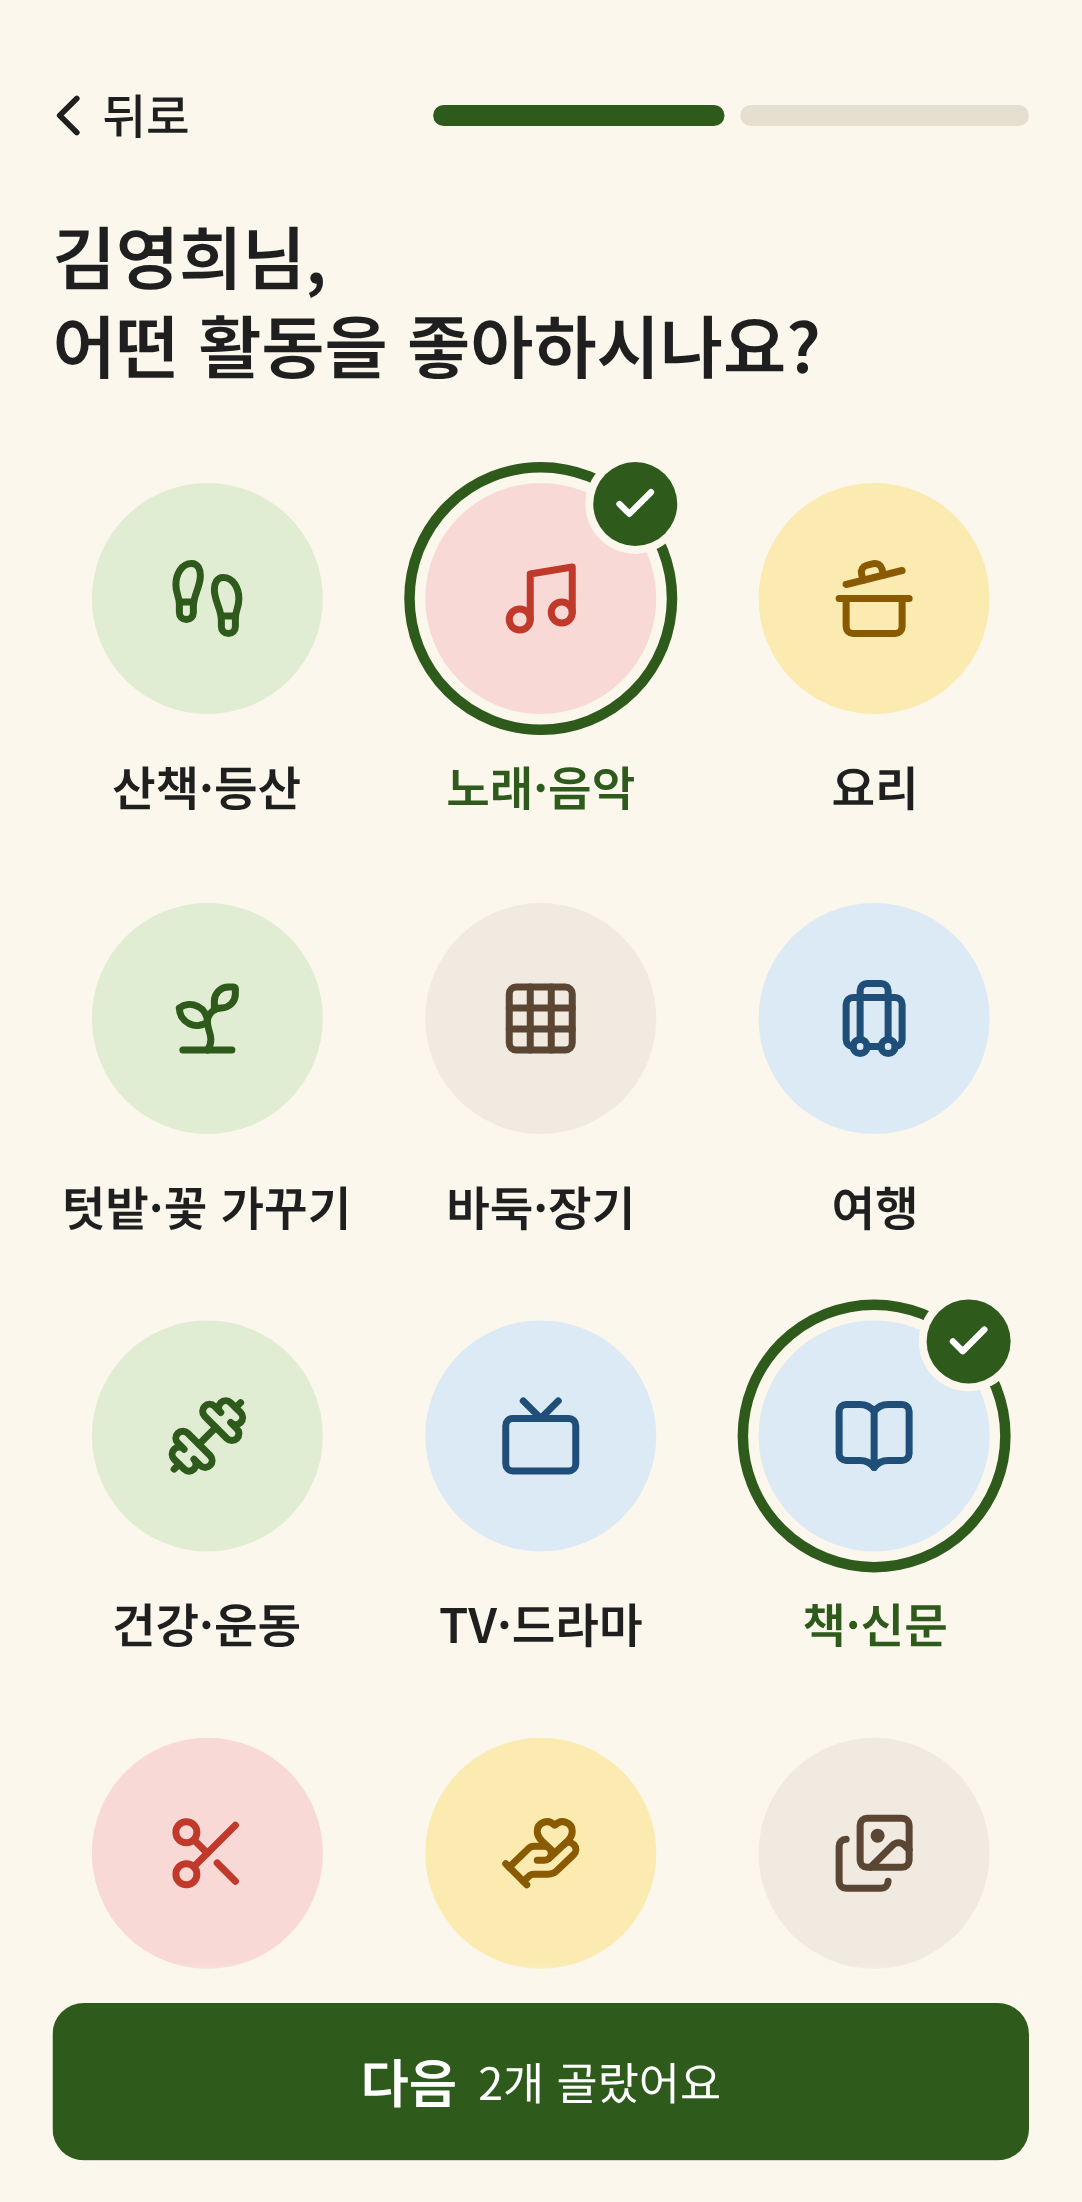
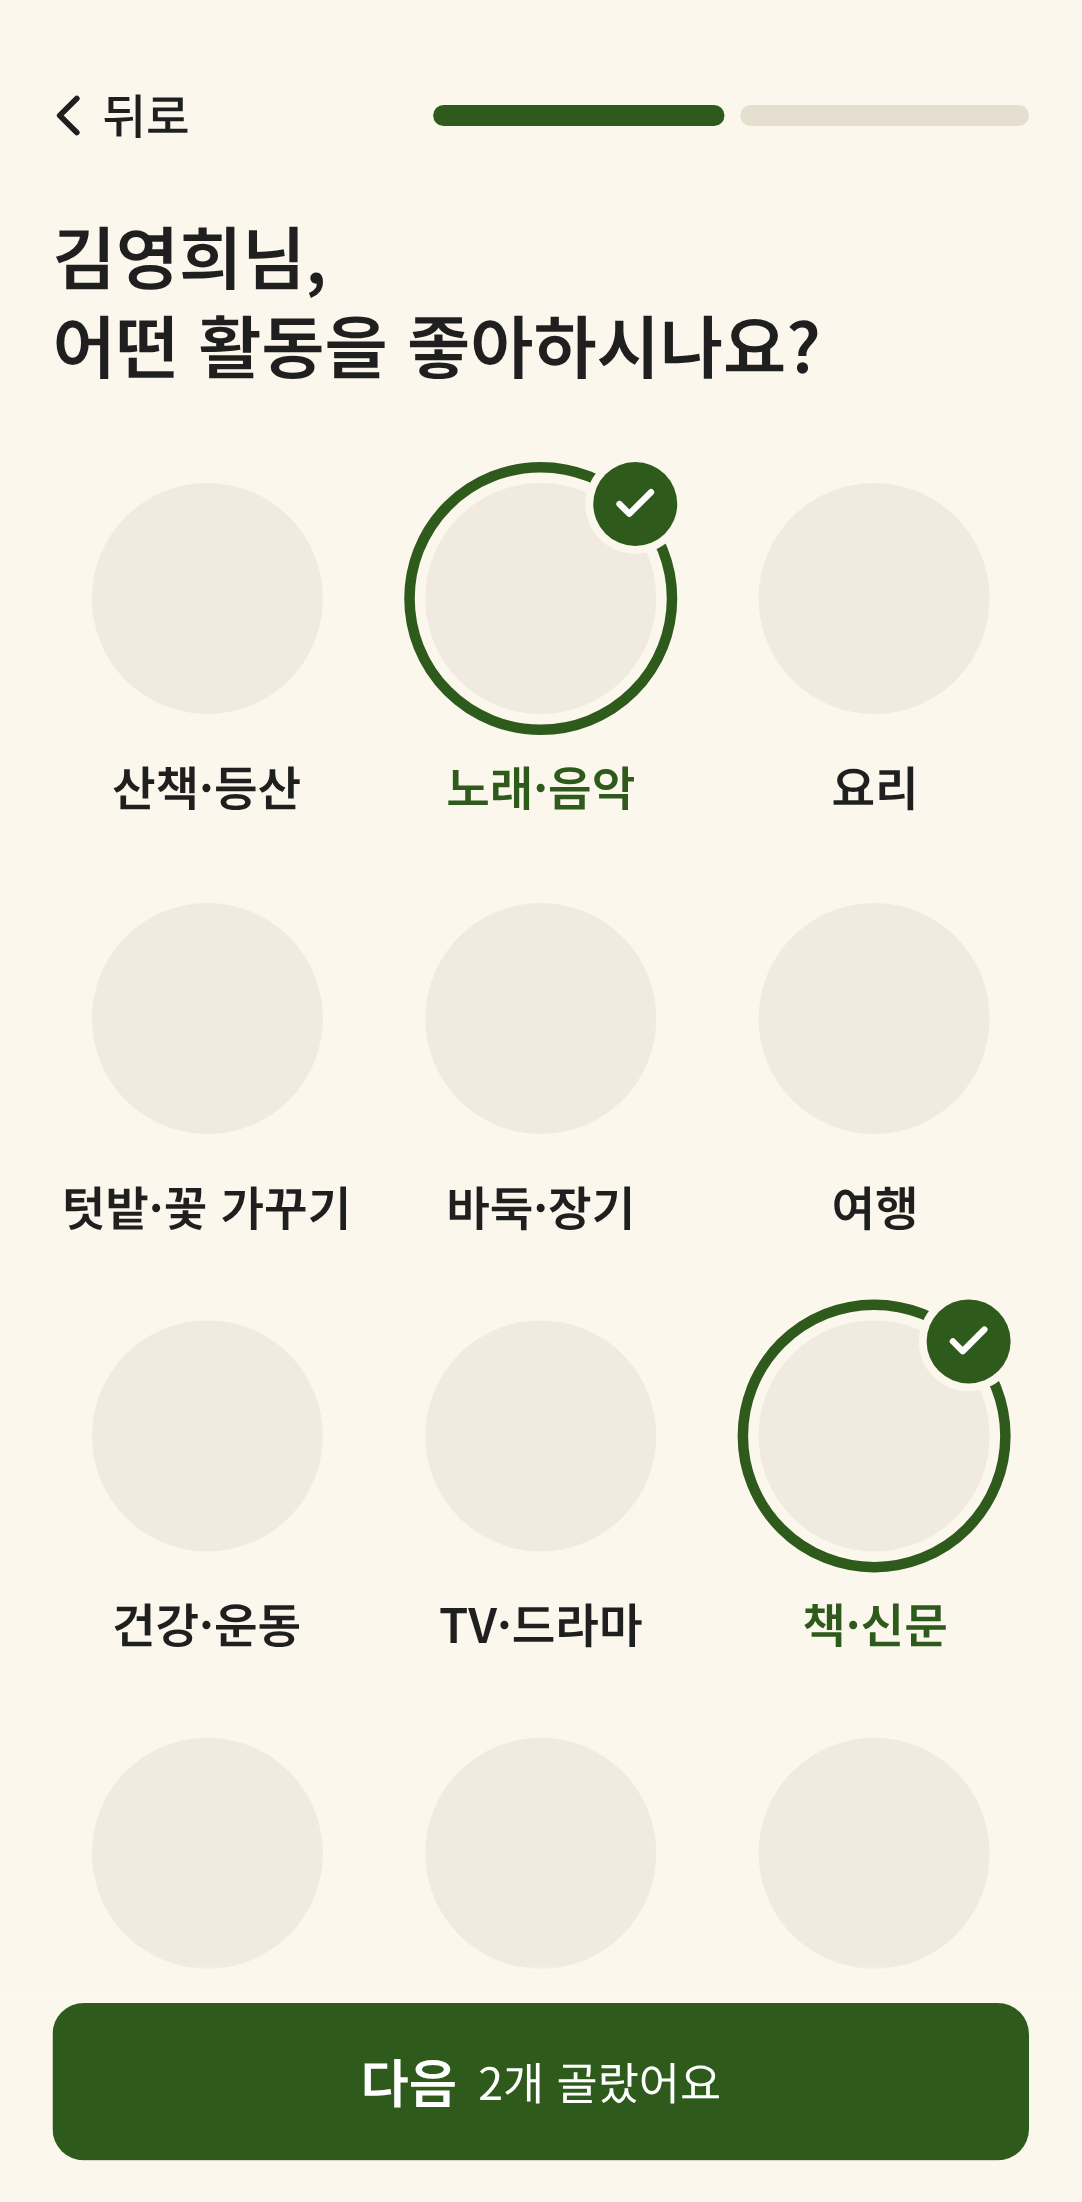
A23: 사진 대체 화면은 아이콘 대신 연한 바탕만

diff --git a/frontend/src/features/auth/components/interestChoices.ts b/frontend/src/features/auth/components/interestChoices.ts
@@ -1,41 +1,26 @@
-import {
-  BookOpen,
-  CookingPot,
-  Dumbbell,
-  Footprints,
-  Grid3x3,
-  HandHeart,
-  Images,
-  Luggage,
-  Music,
-  Scissors,
-  Sprout,
-  Tv,
-  type LucideIcon,
-} from 'lucide-react'
-import type { ChoiceTone, PhotoChoice } from '@/shared/ui/PhotoChoiceGrid'
+import type { PhotoChoice } from '@/shared/ui/PhotoChoiceGrid'
 
 /**
  * 관심사(INTERESTS 코드)별 대표 사진 — 시연용 실사 사진 (A23).
  *
  * activityPhotos(A20)와 같은 방식: Unsplash 무료 사진(Unsplash License)을 CDN 주소로 바로 불러온다.
- * 사진을 못 불러오면 아이콘 + 파스텔 바탕으로 대신 보인다.
- * 사진을 바꾸려면 photo(…photo- 뒤 부분)만 바꾸면 된다.
+ * 사진을 못 불러오면 연한 바탕만 보인다 (대신 그림은 넣지 않음).
+ * 사진을 바꾸려면 아래 id(photo- 뒤 부분)만 바꾸면 된다.
  * 사진은 설명(alt) 기준으로 골랐다 — 화면에서 확인하고 어색하면 교체.
  */
-const LOOK: Record<string, { photo: string; icon: LucideIcon; tone: ChoiceTone }> = {
-  walking: { photo: '1671530725345-cc4a2cf5db04', icon: Footprints, tone: 'mint' }, // 공원을 함께 걷는 두 사람
-  music: { photo: '1785225484906-56a45c2a5beb', icon: Music, tone: 'pink' }, // 함께 노래하는 어르신들
-  cooking: { photo: '1785735364482-0979a960c625', icon: CookingPot, tone: 'yellow' }, // 김이 나는 국 한 그릇
-  gardening: { photo: '1688176939869-27718ebf6ad9', icon: Sprout, tone: 'mint' }, // 나무 상자 텃밭의 상추
-  baduk: { photo: '1777652907869-97332fd656d8', icon: Grid3x3, tone: 'beige' }, // 바둑 두는 사람들
-  travel: { photo: '1736080058317-84ff903cb9f6', icon: Luggage, tone: 'sky' }, // 산이 보이는 바닷가
-  health: { photo: '1775338782892-315ab263fab9', icon: Dumbbell, tone: 'mint' }, // 함께 하는 태극권·스트레칭
-  tv: { photo: '1528429421263-b742bf08e211', icon: Tv, tone: 'sky' }, // 소파에서 TV 보기
-  reading: { photo: '1745774609395-a7621c50887f', icon: BookOpen, tone: 'sky' }, // 바깥에서 책 읽는 어르신
-  crafts: { photo: '1541753866388-0b3c701627d3', icon: Scissors, tone: 'pink' }, // 그림 그리는 손
-  faith: { photo: '1765146567664-cf0c0d987da9', icon: HandHeart, tone: 'yellow' }, // 나란히 켜진 촛불
-  memories: { photo: '1528569937393-ee892b976859', icon: Images, tone: 'beige' }, // 흑백 사진 앨범
+const PHOTO_IDS: Record<string, string> = {
+  walking: '1671530725345-cc4a2cf5db04', // 공원을 함께 걷는 두 사람
+  music: '1785225484906-56a45c2a5beb', // 함께 노래하는 어르신들
+  cooking: '1785735364482-0979a960c625', // 김이 나는 국 한 그릇
+  gardening: '1688176939869-27718ebf6ad9', // 나무 상자 텃밭의 상추
+  baduk: '1777652907869-97332fd656d8', // 바둑 두는 사람들
+  travel: '1736080058317-84ff903cb9f6', // 산이 보이는 바닷가
+  health: '1775338782892-315ab263fab9', // 함께 하는 태극권·스트레칭
+  tv: '1528429421263-b742bf08e211', // 소파에서 TV 보기
+  reading: '1745774609395-a7621c50887f', // 바깥에서 책 읽는 어르신
+  crafts: '1541753866388-0b3c701627d3', // 그림 그리는 손
+  faith: '1765146567664-cf0c0d987da9', // 나란히 켜진 촛불
+  memories: '1528569937393-ee892b976859', // 흑백 사진 앨범
 }
 
 /** 둥근 사진 지름(최대 104px)의 2배 정도로 잘라 받는다 */
@@ -43,16 +28,10 @@ function photoUrl(id: string) {
   return `https://images.unsplash.com/photo-${id}?w=240&h=240&fit=crop&auto=format&q=70`
 }
 
-/** 서버가 준 관심사 목록 → 사진 선택지 (모르는 코드는 아이콘만) */
+/** 서버가 준 관심사 목록 → 사진 선택지 (모르는 코드는 바탕만) */
 export function toInterestChoices(list: { code: string; label: string }[]): PhotoChoice[] {
   return list.map(({ code, label }) => {
-    const look = LOOK[code]
-    return {
-      value: code,
-      label,
-      image: look ? photoUrl(look.photo) : null,
-      icon: look?.icon ?? HandHeart,
-      tone: look?.tone ?? 'beige',
-    }
+    const id = PHOTO_IDS[code]
+    return { value: code, label, image: id ? photoUrl(id) : null }
   })
 }

diff --git a/frontend/src/shared/ui/PhotoChoiceGrid.tsx b/frontend/src/shared/ui/PhotoChoiceGrid.tsx
@@ -1,17 +1,12 @@
-import { Check, type LucideIcon } from 'lucide-react'
+import { Check } from 'lucide-react'
 import { useState } from 'react'
 import styles from './PhotoChoiceGrid.module.css'
-import { ICON, ICON_STROKE } from './icon'
-
-export type ChoiceTone = 'pink' | 'mint' | 'yellow' | 'sky' | 'beige'
 
 export interface PhotoChoice {
   value: string
   label: string
-  /** 사진 주소. 없거나 못 불러오면 아이콘 + 파스텔 바탕 */
+  /** 사진 주소. 없거나 못 불러오면 연한 바탕만 (이름은 아래 글자로 이미 보인다) */
   image?: string | null
-  icon: LucideIcon
-  tone?: ChoiceTone
 }
 
 interface Props {
@@ -27,6 +22,7 @@ interface Props {
  * 둥근 사진으로 고르는 선택지 (여러 개) — 3열이라 12개가 한 화면 남짓에 들어온다 (A23 시안 C).
  * 선택은 색만이 아니라 사진 둘레 녹색 고리 + ✓ + aria-pressed 로 전달한다.
  * 사진은 꾸밈이라 읽지 않고, 버튼 이름은 아래 글자 그대로다.
+ * 사진을 못 불러오면 대신 그림을 넣지 않고 연한 바탕만 둔다 — 어설픈 아이콘보다 조용한 빈칸이 낫다 (A23).
  */
 export function PhotoChoiceGrid({ legend, legendHidden = false, options, selected, onToggle }: Props) {
   return (
@@ -60,13 +56,11 @@ export function PhotoChoiceGrid({ legend, legendHidden = false, options, selecte
   )
 }
 
-/** 불러오는 동안·실패하면 아이콘이 보인다 */
+/** 불러오는 동안·실패하면 연한 바탕만 */
 function Photo({ option }: { option: PhotoChoice }) {
   const [failed, setFailed] = useState(false)
-  const Icon = option.icon
   return (
-    <span className={styles.photo} data-tone={option.tone ?? 'beige'} aria-hidden="true">
-      <Icon size={ICON.md + 6} strokeWidth={ICON_STROKE} />
+    <span className={styles.photo} aria-hidden="true">
       {option.image && !failed && (
         <img src={option.image} alt="" loading="lazy" decoding="async" onError={() => setFailed(true)} />
       )}

diff --git a/frontend/src/shared/ui/PhotoChoiceGrid.module.css b/frontend/src/shared/ui/PhotoChoiceGrid.module.css
@@ -72,14 +72,15 @@
   border-color: var(--color-primary);
 }
 
+/* 사진 자리 — 불러오는 동안·실패하면 연한 바탕 한 가지만 (그림 대신 조용한 빈칸) */
 .photo {
   position: relative;
   overflow: hidden;
-  display: grid;
-  place-items: center;
+  display: block;
   width: 100%;
   height: 100%;
   border-radius: var(--radius-pill);
+  background: var(--color-card-beige);
 }
 
 .photo img {
@@ -115,11 +116,6 @@
   color: var(--color-primary);
 }
 
-.photo[data-tone='pink'] { background: var(--color-card-pink); color: var(--color-icon-pink); }
-.photo[data-tone='mint'] { background: var(--color-card-mint); color: var(--color-icon-mint); }
-.photo[data-tone='yellow'] { background: var(--color-card-yellow); color: var(--color-icon-yellow); }
-.photo[data-tone='sky'] { background: var(--color-card-sky); color: var(--color-icon-sky); }
-.photo[data-tone='beige'] { background: var(--color-card-beige); color: var(--color-icon-beige); }
 
 /* 선명한 화면: 사진 둘레에 흰 테두리, 선택은 노란 고리 */
 :root[data-contrast='high'] .photo {

diff --git a/docs/tasks/A23-interest-select.md b/docs/tasks/A23-interest-select.md
@@ -12,14 +12,14 @@
 
 ## 바뀐 것 (사용자 관점)
 - **두 단계로**: 1/2 "○○님, 어떤 활동을 좋아하시나요?" → 2/2 "사는 동네를 알려 주세요"(위치 정보 수집 동의, A21). 위쪽 '뒤로' 줄 오른쪽 막대로 지금 단계를 보여 준다. 2단계에서 '뒤로'를 누르면 1단계로 돌아가고 고른 것은 그대로.
-- **둥근 사진 3열**: 활동마다 둥근 사진 + 이름. 고르면 사진 둘레 녹색 고리 + ✓ + 이름 초록. 사진을 못 불러오면 활동 아이콘 + 파스텔 바탕.
+- **둥근 사진 3열**: 활동마다 둥근 사진 + 이름. 고르면 사진 둘레 녹색 고리 + ✓ + 이름 초록. 사진을 못 불러오면 연한 베이지 바탕만(대신 그림 없음) — 이름은 아래 글자로 이미 보인다.
 - **버튼은 늘 아래에**: 목록을 내려도 '다음'이 화면 아래에 붙어 있다. 고른 개수를 버튼 안에 작게("다음 2개 골랐어요"). 아무것도 안 골랐으면 버튼이 "하나 이상 골라 주세요"로 바뀌고 눌리지 않는다(오류창 대신).
 - **5개 제한**: 넘기려 하면 버튼 바로 위에 이유를 알려 준다(기존 문구 그대로).
 - **글씨**: 설명 문구 없이 제목 하나만(A18). 글자를 키우면('가가' 포함 어느 단계든) 2열, 넓은 화면(태블릿·PC)에서는 4열.
 
 ## 손댄 곳
-- `shared/ui/PhotoChoiceGrid` — 둥근 사진 여러 개 고르기 (aria-pressed, 사진 실패 시 아이콘)
-- `features/auth/components/interestChoices.ts` — 관심사 코드 → 사진·아이콘·색 한 곳에서 관리 (A20 `activityPhotos` 와 같은 방식, 바꿀 때 id만 교체)
+- `shared/ui/PhotoChoiceGrid` — 둥근 사진 여러 개 고르기 (aria-pressed, 사진 실패 시 연한 바탕)
+- `features/auth/components/interestChoices.ts` — 관심사 코드 → 사진 id 한 곳에서 관리 (A20 `activityPhotos` 와 같은 방식, 바꿀 때 id만 교체)
 - `SignupProfileForm` — 2단계, 하단 고정 버튼, 단계 막대 / `SignupPage` — 상단 바를 폼이 그림
 - `shared/ui/TopBar` — `onBack` (페이지 이동 대신 이전 단계로)
 - e2e `onboarding.spec.ts` — 두 단계 흐름, 뒤로 시 선택 유지, 안 골랐을 때 버튼 상태
@@ -36,4 +36,5 @@
 - 처음엔 사진 카드(시안 그대로) + 시·도 선택 단계로 바로 구현했다가 되돌림 — 예전 main 기준이라 A21(위치 동의)과 어긋났고, 시안 비교 없이 코드부터 손댄 탓. A22처럼 **눌러 볼 수 있는 미리보기로 먼저 비교**하는 순서로 다시 진행
 - 미리보기 세 안: A 사진 카드(시안 그대로) · B 사진 가득(사진 위 흰 글씨) · C 동그라미 3열 → **C 채택** (12개가 스크롤 조금으로 거의 다 보임)
 - C의 약점(큰 글씨에서 이름이 두 줄로 잘게 끊김)은 글자를 키우면 2열로 바꿔 해결
-- 작업 환경에서 사진 서버가 막혀 화면 캡처는 아이콘 대체 모습 — 실제 사진은 데모에서 확인
+- 작업 환경에서 사진 서버가 막혀 화면 캡처는 사진 없는 대체 모습 — 실제 사진은 데모에서 확인
+- 대체 화면: 처음엔 활동 아이콘 + 활동별 파스텔색이었는데 흔한 선 아이콘이라 대충 그린 느낌이고(A19 일러스트와도 그림체가 다름), 바둑·종교·옛날 이야기는 그림만으로 뜻이 안 보였다 → 아이콘을 빼고 **연한 바탕 한 가지**로. 사진이 들어가면 거의 보이지 않는 화면이라 새로 그리지 않고 조용하게 둠

diff --git a/docs/design/A23-interest-before-after.md b/docs/design/A23-interest-before-after.md
@@ -4,9 +4,9 @@
 
 | 기존 | A23 반영 후 |
 |---|---|
-| <img src="A23-interest-before.png" width="260" alt="기존 가입 마무리 화면: 반가워요 제목, 위치 정보 수집 동의 칸, 좋아하는 것 글자 버튼 12개, 가입 완료 막대"> | <img src="A23-interest-after.png" width="260" alt="개선된 1단계 화면: 뒤로와 단계 막대, 어떤 활동을 좋아하시나요 제목, 둥근 그림 3열 중 노래·음악과 책·신문에 녹색 고리와 체크, 아래 다음 2개 골랐어요 버튼"> |
+| <img src="A23-interest-before.png" width="260" alt="기존 가입 마무리 화면: 반가워요 제목, 위치 정보 수집 동의 칸, 좋아하는 것 글자 버튼 12개, 가입 완료 막대"> | <img src="A23-interest-after.png" width="260" alt="개선된 1단계 화면: 뒤로와 단계 막대, 어떤 활동을 좋아하시나요 제목, 빈 둥근 칸 3열 중 노래·음악과 책·신문에 녹색 고리와 체크, 아래 다음 2개 골랐어요 버튼"> |
 
-(오른쪽 캡처는 작업 환경에서 사진 서버가 막혀 아이콘 대체 모습. 실제 데모에서는 둥근 칸에 사진이 들어간다)
+(오른쪽 캡처는 작업 환경에서 사진 서버가 막혀 사진 없는 대체 모습 — 둥근 칸이 연한 바탕으로 비어 있다. 실제 데모에서는 둥근 칸에 사진이 들어간다)
 
 ## 한눈에
 
@@ -24,6 +24,7 @@
 - 고를 대상이 **눈으로 알아볼 수 있는 것**(활동·장소)이면 글자 버튼보다 사진. 단, 이름은 반드시 함께 — 사진은 꾸밈, 의미는 글자로
 - 선택 표시는 **내용을 가리지 않는 방식**(테두리·✓)으로, 색만으로 전달하지 않는다
 - 아직 할 수 없는 행동은 오류창보다 **버튼 자체가 할 일을 말하게**
+- 사진을 못 불러올 때는 어설픈 대체 그림보다 **조용한 빈칸**이 낫다 — 의미는 이름 글자가 이미 전한다
 - 칸 수는 글자 크기와 함께 생각한다 — 큰 글씨에서 이름이 잘게 끊기면 칸을 줄인다
 
 ## 폴리싱 체크리스트 (A22에 더해)
